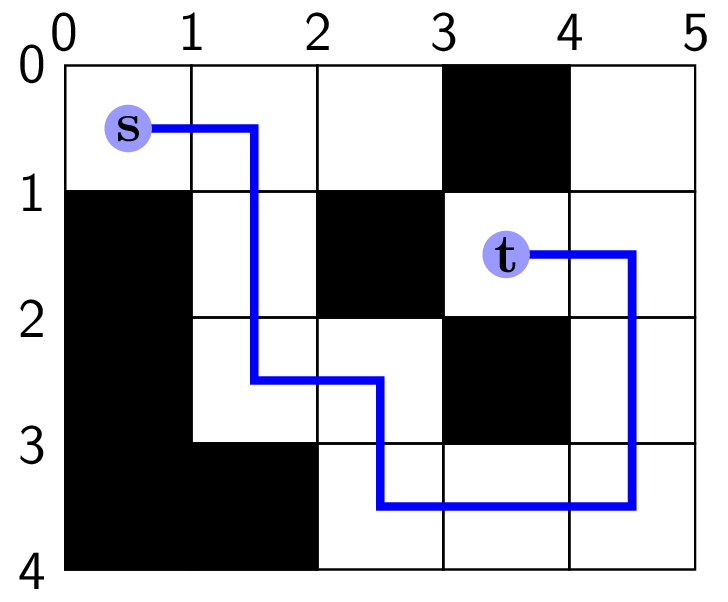
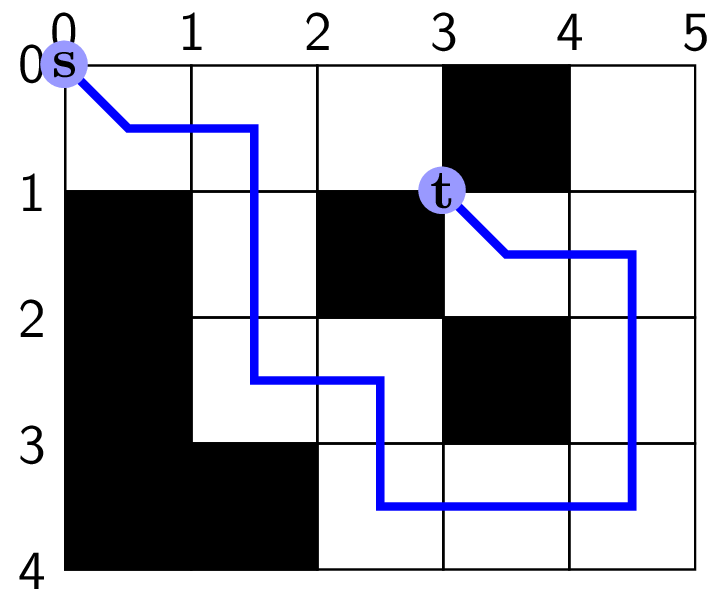
prod definition centering update

Changed region(s): [[0.5742, 0.2691, 0.7253, 0.4784], [0.1209, 0.1495, 0.2115, 0.2691], [0.0302, 0.0598, 0.1209, 0.1495]]

diff --git a/figs/latex/grid_plane_path_center.tex b/figs/latex/grid_plane_path_center.tex
@@ -24,10 +24,10 @@
 
 \tikzstyle{p}=[circle,fill=blue!40, inner sep=0pt, minimum size=3mm]
 
-\draw[-,line width=1.5pt, blue ] (m-1-1.center) -- (m-1-2.center) -- (m-3-2.center) -- (m-3-3.center) -- (m-4-3.center) -- (m-4-5.center) -- (m-2-5.center) -- (m-2-4.center);
+\draw[-,line width=1.5pt, blue ] (m-1-1.north west) -- (m-1-1.center) -- (m-1-2.center) -- (m-3-2.center) -- (m-3-3.center) -- (m-4-3.center) -- (m-4-5.center) -- (m-2-5.center) -- (m-2-4.center) -- (m-2-4.north west);
 
-\node[p] at (m-1-1.center) {$\mathbf{s}$};
-\node[p] at (m-2-4.center) {$\mathbf{t}$};
+\node[p] at (m-1-1.north west) {$\mathbf{s}$};
+\node[p] at (m-2-4.north west) {$\mathbf{t}$};
 
 \end{tikzpicture}
 \end{document}

diff --git a/figs/latex/invalid_segments_start.tex b/figs/latex/invalid_segments_start.tex
@@ -17,11 +17,11 @@
 
 \tikzstyle{p}=[circle,fill=blue!40, inner sep=0pt, minimum size=4mm]
 
-\draw[-,line width=1.5pt, blue ] (m-3-3.north west) -- (m-4-3.center) -- (m-4-1.center);
-\draw[-,line width=1.5pt, red ] (m-3-3.north west) -- (m-2-1.center) -- (m-4-1.center);
+\draw[-,line width=1.5pt, blue ] (m-3-3.north west) -- (m-4-3.center) -- (m-4-1.north west);
+\draw[-,line width=1.5pt, red ] (m-3-3.north west) -- (m-2-1.center) -- (m-4-1.north west);
 
 \node[p] at (m-3-3.north west) {$\mathbf{s}$};
-\node[p] at (m-4-1.center) {$\mathbf{t}$};
+\node[p] at (m-4-1.north west) {$\mathbf{t}$};
 \node[p] at (m-4-3.center) {$\mathbf{a}$};
 \node[p] at (m-2-1.center) {$\mathbf{b}$};
 

diff --git a/figs/latex/invalid_segments_target.tex b/figs/latex/invalid_segments_target.tex
@@ -17,11 +17,11 @@
 
 \tikzstyle{p}=[circle,fill=blue!40, inner sep=0pt, minimum size=4mm]
 
-\draw[-,line width=1.5pt, blue ] (m-3-3.north west) -- (m-4-3.center) -- (m-4-1.center);
-\draw[-,line width=1.5pt, red ] (m-3-3.north west) -- (m-2-1.center) -- (m-4-1.center);
+\draw[-,line width=1.5pt, blue ] (m-3-3.north west) -- (m-4-3.center) -- (m-4-1.north west);
+\draw[-,line width=1.5pt, red ] (m-3-3.north west) -- (m-2-1.center) -- (m-4-1.north west);
 
 \node[p] at (m-3-3.north west) {$\mathbf{t}$};
-\node[p] at (m-4-1.center) {$\mathbf{s}$};
+\node[p] at (m-4-1.north west) {$\mathbf{s}$};
 \node[p] at (m-4-3.center) {$\mathbf{a}$};
 \node[p] at (m-2-1.center) {$\mathbf{b}$};
 

diff --git a/figs/latex/invalid_segments_start2.tex b/figs/latex/invalid_segments_start2.tex
@@ -17,11 +17,11 @@
 
 \tikzstyle{p}=[circle,fill=blue!40, inner sep=0pt, minimum size=4mm]
 
-\draw[-,line width=1.5pt, red ] (m-3-3.north west) -- (m-3-1.center) -- (m-1-1.center);
-\draw[-,line width=1.5pt, red ] (m-3-3.north west) -- (m-1-3.center) -- (m-1-1.center);
+\draw[-,line width=1.5pt, red ] (m-3-3.north west) -- (m-3-1.center) -- (m-1-1.north west);
+\draw[-,line width=1.5pt, red ] (m-3-3.north west) -- (m-1-3.center) -- (m-1-1.north west);
 
 \node[p] at (m-3-3.north west) {$\mathbf{s}$};
-\node[p] at (m-1-1.center) {$\mathbf{t}$};
+\node[p] at (m-1-1.north west) {$\mathbf{t}$};
 \node[p] at (m-3-1.center) {$\mathbf{a}$};
 \node[p] at (m-1-3.center) {$\mathbf{b}$};
 

diff --git a/Problem_Definition.md b/Problem_Definition.md
@@ -49,7 +49,7 @@ The following example has the query `<(0,0), (1,3)>`, and shows valid paths, the
   </p>
 
 
-**When start and target are the same position, the path must be empty, thus the length will be `0`.** TODO: would not empty be no-solution, should it just be a single point?
+**When start and target are the same position, the path must be empty, thus the length will be `0`.**
 
 ## Valid Path Segments
 
